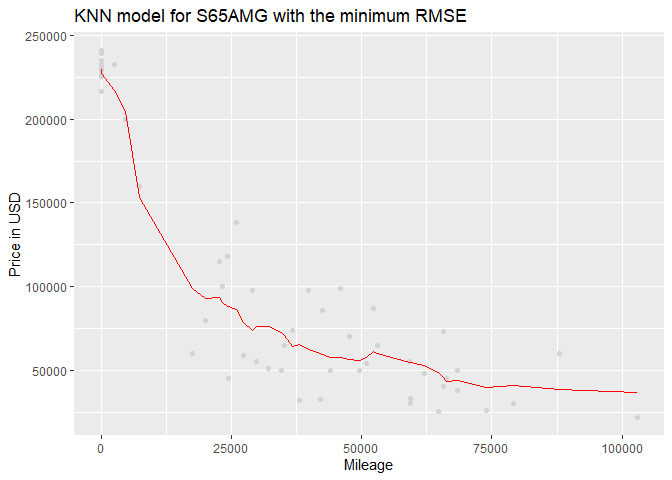
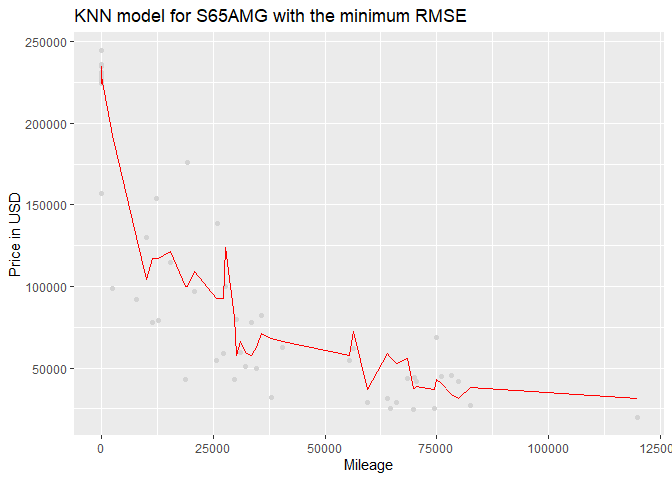
final update

diff --git a/Assignment-1.md b/Assignment-1.md
@@ -103,7 +103,7 @@ Model for MB S350
 In the figure 2.1. we can see the negative relation between the mileage
 and the price, as expected.
 
-The following steep is divide our data between the test and train data
+The following step is divide our data between the test and train data
 for both variables. After that, we generate random samples of our
 subsets of data. Then, we calculate the rsme generated at each level of
 K in our k nearest neighbor model for price of a 350 s class given the
@@ -115,13 +115,13 @@ mileage.
 
 The figure 2.2. shows the series of RMSE at every value of K, the red
 line indicate the k which generate the minimum RMSE. In this case the k
-value is 18. However this value will change any time we generate a new
+value is 6. However this value will change any time we generate a new
 random sample, to decide the best k we repeated the process ten times
 and then we took the average of the minium k.
 
 ### Figure 2.3.
 
-    ## [1] 9503.398
+    ## [1] 11779.52
 
 ![](Assignment-1_files/figure-markdown_strict/unnamed-chunk-13-1.png)
 
@@ -145,10 +145,10 @@ for the S65 AMG class.
 
 The figure 2.5. shows the series of RMSE at every value of K, the red
 line indicate the k which generate the minimum RMSE. In this case the k
-value which minimize the RMSE for S65 AMG trim is 25. However this value
+value which minimize the RMSE for S65 AMG trim is 3. However this value
 will change any time we generate a new random sample, to decide the best
 k we repeated the process ten times and then we took the average of the
-minium k.
+minimum k.
 
 ### Figure 2.6.
 
@@ -157,3 +157,8 @@ minium k.
 After run the model with the best k, we generate the fitted values to
 compare with our test subset. the figure 2.6. shows the fit of the
 chosen model.
+
+The K for these two datasets are different because of the different
+relative variance in both these datasets. We see that the S65 dataset
+has less variance as compared its average then the S350 set, which in
+turn leads to a higher K.
